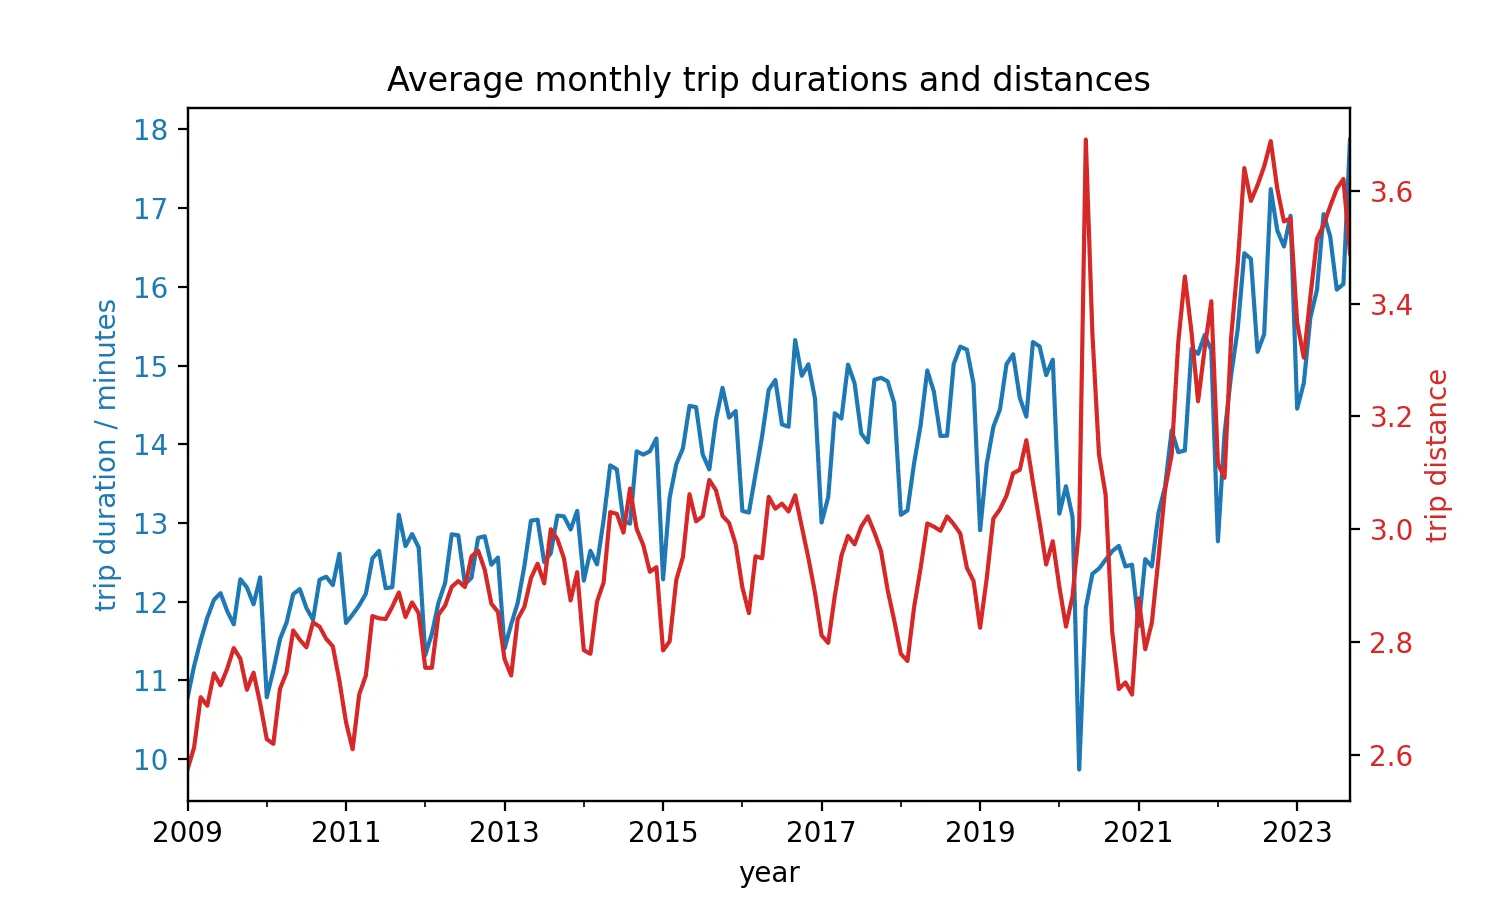
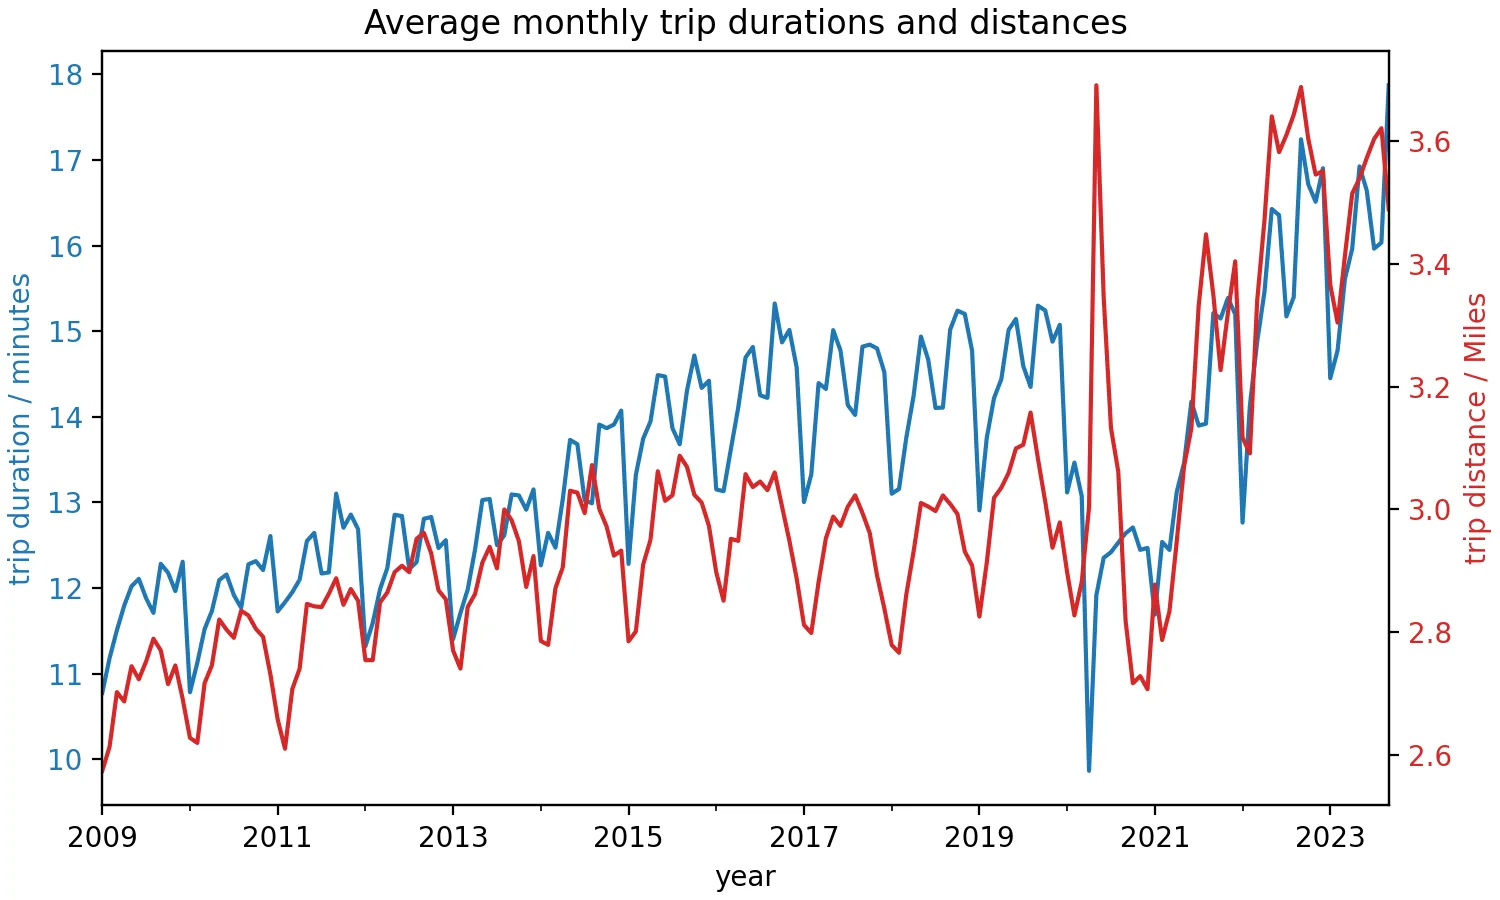
Add Miles as unit for distance

diff --git a/src/yellow_taxis/task_utils.py b/src/yellow_taxis/task_utils.py
@@ -95,6 +95,6 @@ class TaxiBaseTask(ManagedOutputTask):
 
     default_max_distance: int | None = get_settings().get("max_distance")
     max_distance = luigi.IntParameter(
-        description="Reject trips with distance longer than this.",
+        description="Reject trips with distance in Miles longer than this",
         default=default_max_distance,
     )
